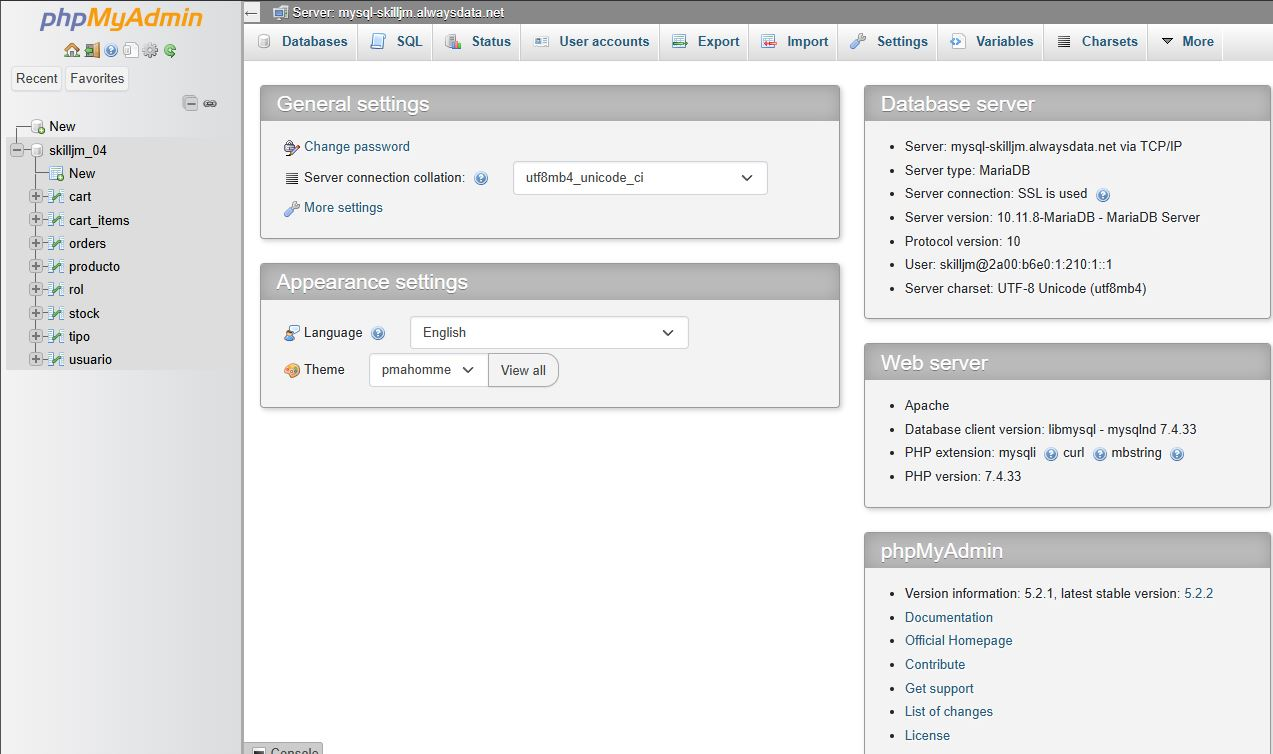
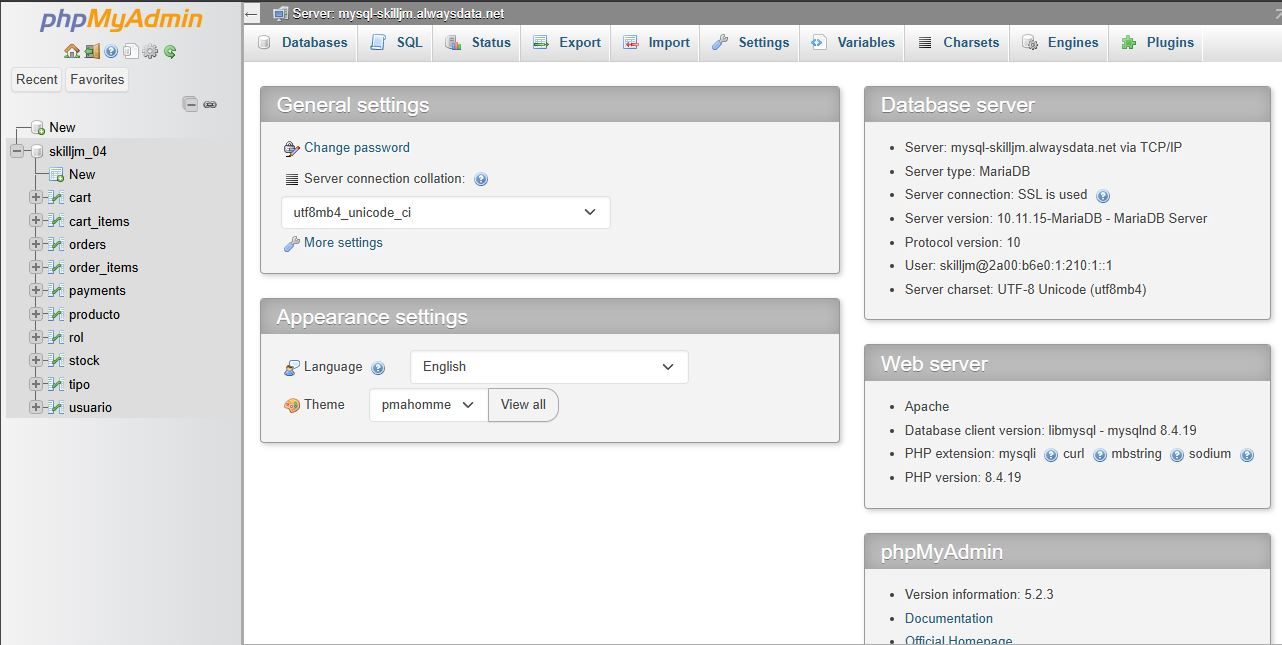
evitar payment duplicado y idempotencia basado e UNIQUE mp_payment.id

Changed region(s): [[0.0, 0.0, 1.0, 1.0], [0.0, 0.155, 0.1225, 0.6512], [0.337, 0.5581, 0.3676, 0.5891]]

diff --git a/src/controlers/mpController.js b/src/controlers/mpController.js
@@ -56,13 +56,18 @@ async function webhook(req, res) {
     console.log("Payment status:", payment.status);
 
     // evitar duplicados
+    /* ELIMINIADO: pre-chek de duplicados
     const exists = await orderService.paymentExists(payment.id);
     if (exists) {
       console.log("Payment ya registrado");
       return;
     }
+    */
 
     // guardar payment
+  // 🟩 REEMPLAZADO: idempotencia basada en DB (UNIQUE mp_payment_id)
+    try {
+
     await orderService.savePayment({
       order_id: orderId,
       user_id: userId,
@@ -76,7 +81,22 @@ async function webhook(req, res) {
       transaction_amount: payment.transaction_amount
     });
 
+} catch (err) {
+      if (err.code === 'ER_DUP_ENTRY' || err.errno === 1062) {
+        console.log("Payment duplicado detectado por DB");
+        // 🟨 IMPORTANTE: NO hacer return aquí (ver abajo)
+      } else {
+        throw err;
+      }
+    }
+   /*
+    🟨 IMPORTANTE:
+    No dependemos de si fue insert nuevo o duplicado.
+    Siempre procesamos el estado del payment.
+    */
+
     // actualizar orden
+       // 🟩 MEJORADO: update de orden SIEMPRE ejecuta si está approved
     if (payment.status === "approved") {
       await orderService.updateOrderStatus(orderId, "approved");
       console.log("Orden aprobada:", orderId);
